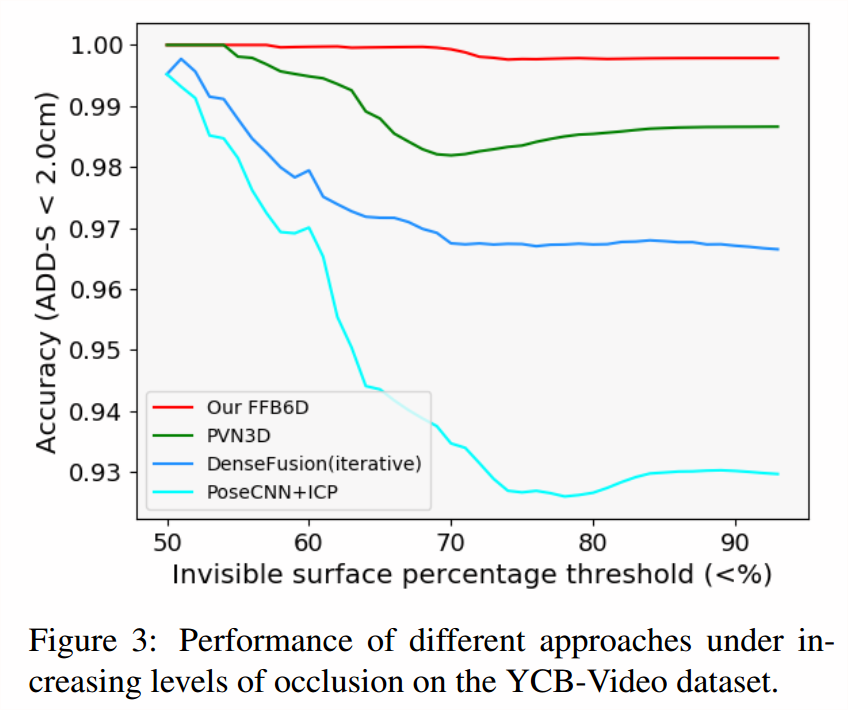
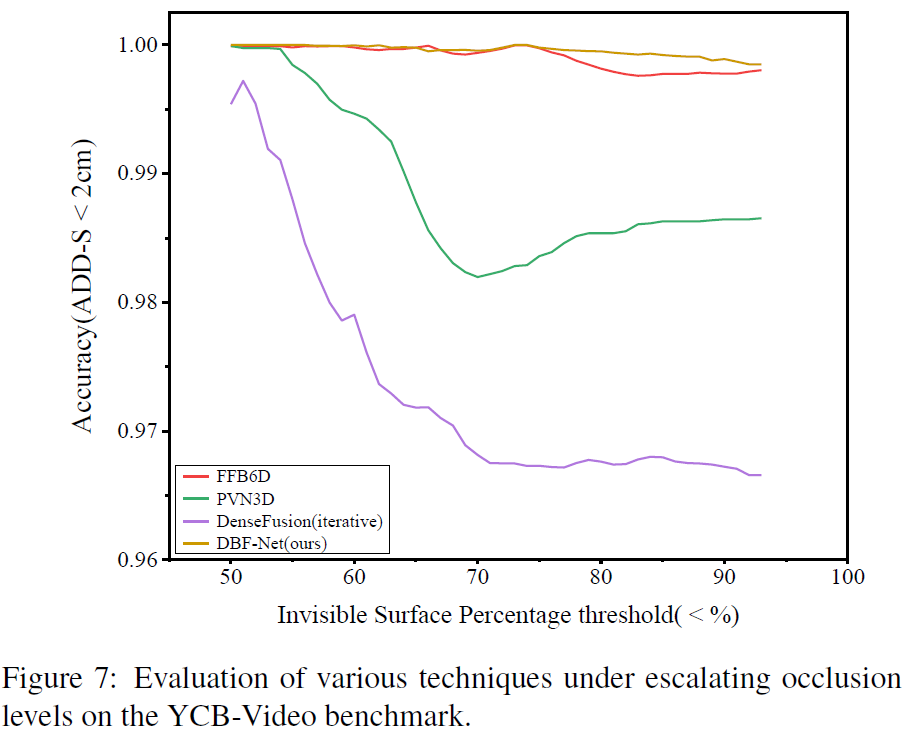
update README

diff --git a/README.md b/README.md
@@ -1,9 +1,9 @@
-# FFB6D
-This is the official source code for the **CVPR2021 Oral** work, **FFB6D: A Full Flow Biderectional Fusion Network for 6D Pose Estimation**. ([Arxiv](https://arxiv.org/abs/2103.02242), [Video_Bilibili](https://www.bilibili.com/video/BV1YU4y1a7Kp?from=search&seid=8306279574921937158), [Video_YouTube](https://www.youtube.com/watch?v=SSi2TnyD6Is))
+# DBF-Net
+This is the official source code for the **Expert System with Applications** work, **DBF-Net: A Deep Bidirectional Fusion Network for 6D Object Pose Estimation with Transformer**. ([Paper]():To be continued...)
 
 ## Table of Content
 
-- [FFB6D](#ffb6d)
+- [DBF-Net](#ffb6d)
   - [Table of Content](#table-of-content)
   - [Introduction & Citation](#introduction--citation)
   - [Demo Video](#demo-video)
@@ -22,33 +22,16 @@ This is the official source code for the **CVPR2021 Oral** work, **FFB6D: A Full
   - [License](#license)
 
 ## Introduction & Citation
-<div align=center><img width="100%" src="figs/FFB6D_overview.png"/></div>
+<div align=center><img width="100%" src="figs/dbf_net_overview.png"/></div>
 
-[FFB6D](https://arxiv.org/abs/2103.02242v1) is a general framework for representation learning from a single RGBD image, and we applied it to the 6D pose estimation task by cascading downstream prediction headers for instance semantic segmentation and 3D keypoint voting prediction from PVN3D([Arxiv](https://arxiv.org/abs/1911.04231), [Code](https://github.com/ethnhe/PVN3D), [Video](https://www.bilibili.com/video/av89408773/)). 
-At the representation learning stage of FFB6D, we build **bidirectional** fusion modules in the **full flow** of the two networks, where fusion is applied to each encoding and decoding layer. In this way, the two networks can leverage local and global complementary information from the other one to obtain better representations. Moreover, at the output representation stage, we designed a simple but effective 3D keypoints selection algorithm considering the texture and geometry information of objects, which simplifies keypoint localization for precise pose estimation.
+**DBF-Net** is a general framework for representation learning from a single RGBD image, and we applied it to the 6D pose estimation task by cascading downstream prediction headers for instance semantic segmentation and 3D keypoint voting prediction from PVN3D([Arxiv](https://arxiv.org/abs/1911.04231), [Code](https://github.com/ethnhe/PVN3D), [Video](https://www.bilibili.com/video/av89408773/)). 
 
-Please cite [FFB6D](https://arxiv.org/abs/2103.02242v1) & [PVN3D](https://arxiv.org/abs/1911.04231) if you use this repository in your publications:
+Firstly, we introduce a **sparse linear Transformer** (SLT) with linear computation complexity to capitalize on cross-modal semantic resemblance during the representation learning phase, such that effectively modeling semantic associations between various modalities and efficiently aggregating the globally enhanced features of each modality. SLT builds a sparse attention matrice to adaptively filter out small attention weights, thus effectively mitigating redundant passing.
 
-```
-@InProceedings{He_2021_CVPR,
-author = {He, Yisheng and Huang, Haibin and Fan, Haoqiang and Chen, Qifeng and Sun, Jian},
-title = {FFB6D: A Full Flow Bidirectional Fusion Network for 6D Pose Estimation},
-booktitle = {IEEE/CVF Conference on Computer Vision and Pattern Recognition (CVPR)},
-month = {June},
-year = {2021}
-}
+Secondly, we integrate **positional encoding and feature transformation** into SLT to obtain better feature representations. Once acquiring the two feature representations from the two modalities, we propose a feature balancer (FB) based on SLT to adaptively reconcile the importance of the two feature representations. Leveraging the global receptive field of SLT, FB can effectively eliminate the ambiguity induced by visual similarity in appearance representation or depth missing of reflective surfaces in geometry representations, thereby enhancing the generalization ability and robustness of the network.
 
-@InProceedings{He_2020_CVPR,
-author = {He, Yisheng and Sun, Wei and Huang, Haibin and Liu, Jianran and Fan, Haoqiang and Sun, Jian},
-title = {PVN3D: A Deep Point-Wise 3D Keypoints Voting Network for 6DoF Pose Estimation},
-booktitle = {IEEE/CVF Conference on Computer Vision and Pattern Recognition (CVPR)},
-month = {June},
-year = {2020}
-}
-```
+Please cite [DBF-Net](https://arxiv.org/abs/2103.02242v1) & [PVN3D](https://arxiv.org/abs/1911.04231) if you use this repository in your publications:
 
-## Demo Video
-See our demo video on [YouTube](https://www.youtube.com/watch?v=SSi2TnyD6Is) or [bilibili](https://www.bilibili.com/video/BV1YU4y1a7Kp?from=search&seid=8306279574921937158).
 ## Installation
 - Install CUDA 10.1 / 10.2
 - Set up python3 environment from requirement.txt:
@@ -74,7 +57,7 @@ See our demo video on [YouTube](https://www.youtube.com/watch?v=SSi2TnyD6Is) or 
 
 - Compile [RandLA-Net](https://github.com/qiqihaer/RandLA-Net-pytorch) operators:
   ```shell
-  cd ffb6d/models/RandLA/
+  cd dbfnet/models/RandLA/
   sh compile_op.sh
   ```
 
@@ -82,76 +65,77 @@ See our demo video on [YouTube](https://www.youtube.com/watch?v=SSi2TnyD6Is) or 
 <details>
   <summary>[Click to expand]</summary>
 
-- **ffb6d**
-  - **ffb6d/common.py**: Common configuration of dataset and models, eg. dataset path, keypoints path, batch size and so on.
-  - **ffb6d/datasets**
-    - **ffb6d/datasets/linemod/**
-      - **ffb6d/datasets/linemod/linemod_dataset.py**: Data loader for LineMOD dataset.
-      - **ffb6d/datasets/linemod/dataset_config/models_info.yml**: Object model info of LineMOD dataset.
-      - **ffb6d/datasets/linemod/kps_orb9_fps**
-        - **ffb6d/datasets/linemod/kps_orb9_fps/{obj_name}_8_kps.txt**: ORB-FPS 3D keypoints of an object in the object coordinate system.
-        - **ffb6d/datasets/linemod/kps_orb9_fps/{obj_name}_corners.txt**: 8 corners of the 3D bounding box of an object in the object coordinate system.
-    - **ffb6d/datasets/ycb**
-      - **ffb6d/datasets/ycb/ycb_dataset.py**： Data loader for YCB_Video dataset.
-        - **ffb6d/datasets/ycb/dataset_config/classes.txt**: Object list of YCB_Video dataset.
-        - **ffb6d/datasets/ycb/dataset_config/radius.txt**: Radius of each object in YCB_Video dataset.
-        - **ffb6d/datasets/ycb/dataset_config/train_data_list.txt**: Training set of YCB_Video datset.
-        - **ffb6d/datasets/ycb/dataset_config/test_data_list.txt**: Testing set of YCB_Video dataset.
-      - **ffb6d/datasets/ycb/ycb_kps**
-        - **ffb6d/datasets/ycb/ycb_kps/{obj_name}_8_kps.txt**: ORB-FPS 3D keypoints of an object in the object coordinate system.
-        - **ffb6d/datasets/ycb/ycb_kps/{obj_name}_corners.txt**: 8 corners of the 3D bounding box of an object in the object coordinate system.
-  - **ffb6d/models**
-    - **ffb6d/models/ffb6d.py**: Network architecture of the proposed FFB6D.
-    - **ffb6d/models/cnn**
-      - **ffb6d/models/cnn/extractors.py**: Resnet backbones.
-      - **ffb6d/models/cnn/pspnet.py**: PSPNet decoder.
-      - **ffb6d/models/cnn/ResNet_pretrained_mdl**: Resnet pretraiend model weights.
-    - **ffb6d/models/loss.py**: loss calculation for training of FFB6D model.
-    - **ffb6d/models/pytorch_utils.py**: pytorch basic network modules.
-    - **ffb6d/models/RandLA/**: pytorch version of RandLA-Net from [RandLA-Net-pytorch](https://github.com/qiqihaer/RandLA-Net-pytorch)
-  - **ffb6d/utils**
-    - **ffb6d/utils/basic_utils.py**: basic functions for data processing, visualization and so on.
-    - **ffb6d/utils/meanshift_pytorch.py**: pytorch version of meanshift algorithm for 3D center point and keypoints voting. 
-    - **ffb6d/utils/pvn3d_eval_utils_kpls.py**: Object pose esitimation from predicted center/keypoints offset and evaluation metrics.
-    - **ffb6d/utils/ip_basic**: Image Processing for Basic Depth Completion from [ip_basic](https://github.com/kujason/ip_basic).
-    - **ffb6d/utils/dataset_tools**
-      - **ffb6d/utils/dataset_tools/DSTOOL_README.md**: README for dataset tools.
-      - **ffb6d/utils/dataset_tools/requirement.txt**: Python3 requirement for dataset tools.
-      - **ffb6d/utils/dataset_tools/gen_obj_info.py**: Generate object info, including SIFT-FPS 3d keypoints, radius etc.
-      - **ffb6d/utils/dataset_tools/rgbd_rnder_sift_kp3ds.py**: Render rgbd images from mesh and extract textured 3d keypoints (SIFT/ORB).
-      - **ffb6d/utils/dataset_tools/utils.py**: Basic utils for mesh, pose, image and system processing.
-      - **ffb6d/utils/dataset_tools/fps**: Furthest point sampling algorithm.
-      - **ffb6d/utils/dataset_tools/example_mesh**: Example mesh models.
-  - **ffb6d/train_ycb.py**: Training & Evaluating code of FFB6D models for the YCB_Video dataset.
-  - **ffb6d/demo.py**: Demo code for visualization.
-  - **ffb6d/train_ycb.sh**: Bash scripts to start the training on the YCB_Video dataset.
-  - **ffb6d/test_ycb.sh**: Bash scripts to start the testing on the YCB_Video dataset.
-  - **ffb6d/demo_ycb.sh**: Bash scripts to start the demo on the YCB_Video_dataset.
-  - **ffb6d/train_lm.py**: Training & Evaluating code of FFB6D models for the LineMOD dataset.
-  - **ffb6d/train_lm.sh**: Bash scripts to start the training on the LineMOD dataset.
-  - **ffb6d/test_lm.sh**: Bash scripts to start the testing on the LineMOD dataset.
-  - **ffb6d/demo_lm.sh**: Bash scripts to start the demo on the LineMOD dataset.
-  - **ffb6d/train_log**
-    - **ffb6d/train_log/ycb**
-      - **ffb6d/train_log/ycb/checkpoints/**: Storing trained checkpoints on the YCB_Video dataset.
-      - **ffb6d/train_log/ycb/eval_results/**: Storing evaluated results on the YCB_Video_dataset.
-      - **ffb6d/train_log/ycb/train_info/**: Training log on the YCB_Video_dataset.
+- **dbfnet**
+  - **dbfnet/common.py**: Common configuration of dataset and models, eg. dataset path, keypoints path, batch size and so on.
+  - **dbfnet/datasets**
+    - **dbfnet/datasets/linemod/**
+      - **dbfnet/datasets/linemod/linemod_dataset.py**: Data loader for LineMOD dataset.
+      - **dbfnet/datasets/linemod/dataset_config/models_info.yml**: Object model info of LineMOD dataset.
+      - **dbfnet/datasets/linemod/kps_orb9_fps**
+        - **dbfnet/datasets/linemod/kps_orb9_fps/{obj_name}_8_kps.txt**: ORB-FPS 3D keypoints of an object in the object coordinate system.
+        - **dbfnet/datasets/linemod/kps_orb9_fps/{obj_name}_corners.txt**: 8 corners of the 3D bounding box of an object in the object coordinate system.
+    - **dbfnet/datasets/ycb**
+      - **dbfnet/datasets/ycb/ycb_dataset.py**： Data loader for YCB_Video dataset.
+        - **dbfnet/datasets/ycb/dataset_config/classes.txt**: Object list of YCB_Video dataset.
+        - **dbfnet/datasets/ycb/dataset_config/radius.txt**: Radius of each object in YCB_Video dataset.
+        - **dbfnet/datasets/ycb/dataset_config/train_data_list.txt**: Training set of YCB_Video datset.
+        - **dbfnet/datasets/ycb/dataset_config/test_data_list.txt**: Testing set of YCB_Video dataset.
+      - **dbfnet/datasets/ycb/ycb_kps**
+        - **dbfnet/datasets/ycb/ycb_kps/{obj_name}_8_kps.txt**: ORB-FPS 3D keypoints of an object in the object coordinate system.
+        - **dbfnet/datasets/ycb/ycb_kps/{obj_name}_corners.txt**: 8 corners of the 3D bounding box of an object in the object coordinate system.
+  - **dbfnet/models**
+    - **dbfnet/models/ffb6d.py**: Network architecture of the proposed FFB6D.
+    - **dbfnet/models/cnn**
+      - **dbfnet/models/cnn/extractors.py**: Resnet backbones.
+      - **dbfnet/models/cnn/pspnet.py**: PSPNet decoder.
+      - **dbfnet/models/cnn/ResNet_pretrained_mdl**: Resnet pretraiend model weights.
+    - **dbfnet/models/loss.py**: loss calculation for training of FFB6D model.
+    - **dbfnet/models/pytorch_utils.py**: pytorch basic network modules.
+    - **dbfnet/models/RandLA/**: pytorch version of RandLA-Net from [RandLA-Net-pytorch](https://github.com/qiqihaer/RandLA-Net-pytorch)
+  - **dbfnet/utils**
+    - **dbfnet/utils/basic_utils.py**: basic functions for data processing, visualization and so on.
+    - **dbfnet/utils/meanshift_pytorch.py**: pytorch version of meanshift algorithm for 3D center point and keypoints voting. 
+    - **dbfnet/utils/pvn3d_eval_utils_kpls.py**: Object pose esitimation from predicted center/keypoints offset and evaluation metrics.
+    - **dbfnet/utils/ip_basic**: Image Processing for Basic Depth Completion from [ip_basic](https://github.com/kujason/ip_basic).
+    - **dbfnet/utils/dataset_tools**
+      - **dbfnet/utils/dataset_tools/DSTOOL_README.md**: README for dataset tools.
+      - **dbfnet/utils/dataset_tools/requirement.txt**: Python3 requirement for dataset tools.
+      - **dbfnet/utils/dataset_tools/gen_obj_info.py**: Generate object info, including SIFT-FPS 3d keypoints, radius etc.
+      - **dbfnet/utils/dataset_tools/rgbd_rnder_sift_kp3ds.py**: Render rgbd images from mesh and extract textured 3d keypoints (SIFT/ORB).
+      - **dbfnet/utils/dataset_tools/utils.py**: Basic utils for mesh, pose, image and system processing.
+      - **dbfnet/utils/dataset_tools/fps**: Furthest point sampling algorithm.
+      - **dbfnet/utils/dataset_tools/example_mesh**: Example mesh models.
+  - **dbfnet/train_ycb.py**: Training & Evaluating code of FFB6D models for the YCB_Video dataset.
+  - **dbfnet/demo.py**: Demo code for visualization.
+  - **dbfnet/train_ycb.sh**: Bash scripts to start the training on the YCB_Video dataset.
+  - **dbfnet/test_ycb.sh**: Bash scripts to start the testing on the YCB_Video dataset.
+  - **dbfnet/demo_ycb.sh**: Bash scripts to start the demo on the YCB_Video_dataset.
+  - **dbfnet/train_lm.py**: Training & Evaluating code of FFB6D models for the LineMOD dataset.
+  - **dbfnet/train_lm.sh**: Bash scripts to start the training on the LineMOD dataset.
+  - **dbfnet/test_lm.sh**: Bash scripts to start the testing on the LineMOD dataset.
+  - **dbfnet/demo_lm.sh**: Bash scripts to start the demo on the LineMOD dataset.
+  - **dbfnet/train_log**
+    - **dbfnet/train_log/ycb**
+      - **dbfnet/train_log/ycb/checkpoints/**: Storing trained checkpoints on the YCB_Video dataset.
+      - **dbfnet/train_log/ycb/eval_results/**: Storing evaluated results on the YCB_Video_dataset.
+      - **dbfnet/train_log/ycb/train_info/**: Training log on the YCB_Video_dataset.
 - **requirement.txt**: python3 environment requirements for pip3 install.
 - **figs/**: Images shown in README.
 
 </details>
 
 ## Datasets
-- **LineMOD:** Download the preprocessed LineMOD dataset from [onedrive link](https://hkustconnect-my.sharepoint.com/:u:/g/personal/yhebk_connect_ust_hk/ETW6iYHDbo1OsIbNJbyNBkABF7uJsuerB6c0pAiiIv6AHw?e=eXM1UE) or [google drive link](https://drive.google.com/drive/folders/19ivHpaKm9dOrr12fzC8IDFczWRPFxho7) (refer from [DenseFusion](https://github.com/j96w/DenseFusion)). Unzip it and link the unzipped ``Linemod_preprocessed/`` to ``ffb6d/datasets/linemod/Linemod_preprocessed``:
+- **LineMOD:** Download the preprocessed LineMOD dataset from [onedrive link](https://hkustconnect-my.sharepoint.com/:u:/g/personal/yhebk_connect_ust_hk/ETW6iYHDbo1OsIbNJbyNBkABF7uJsuerB6c0pAiiIv6AHw?e=eXM1UE) or [google drive link](https://drive.google.com/drive/folders/19ivHpaKm9dOrr12fzC8IDFczWRPFxho7) (refer from [DenseFusion](https://github.com/j96w/DenseFusion)). Unzip it and link the unzipped ``Linemod_preprocessed/`` to ``dbfnet/datasets/linemod/Linemod_preprocessed``:
+  
   ```shell
-  ln -s path_to_unzipped_Linemod_preprocessed ffb6d/dataset/linemod/
+  ln -s path_to_unzipped_Linemod_preprocessed dbfnet/dataset/linemod/
   ```
   Generate rendered and fused data following [raster_triangle](https://github.com/ethnhe/raster_triangle).
-
+  
 - **YCB-Video:** Download the YCB-Video Dataset from [PoseCNN](https://rse-lab.cs.washington.edu/projects/posecnn/). Unzip it and link the unzipped```YCB_Video_Dataset``` to ```ffb6d/datasets/ycb/YCB_Video_Dataset```:
 
   ```shell
-  ln -s path_to_unzipped_YCB_Video_Dataset ffb6d/datasets/ycb/
+  ln -s path_to_unzipped_YCB_Video_Dataset dbfnet/datasets/ycb/
   ```
 
 ## Training and evaluating
@@ -175,18 +159,18 @@ See our demo video on [YouTube](https://www.youtube.com/watch?v=SSi2TnyD6Is) or 
   ```shell
   # commands in test_lm.sh
   cls='ape'
-  tst_mdl="./linemod_pretrained/FFB6D_${cls}_best.pth.tar"
+  tst_mdl="./linemod_pretrained/dbfnet_${cls}_best.pth.tar"
   python3 -m torch.distributed.launch --nproc_per_node=1 train_lm.py --gpu '0' --cls $cls -eval_net -checkpoint $tst_mdl -test -test_pose # -debug
   ```
   You can evaluate different checkpoint by revising ``tst_mdl`` to the path of your target model.
-- **Pretrained model**: We provide our pre-trained models for each object on onedrive, [link](https://hkustconnect-my.sharepoint.com/:f:/g/personal/yhebk_connect_ust_hk/Ehg--MMyNdtLnAEurN0tm_MBQ8u_Lntrl42-BQeXO_8H8Q?e=HsZ2Yi). (The provided pretrained model here get better performance than we reported in our paper, mean ADD-0.1d 99.8). Download them and move them to their according folders. For example, move the ``FFB6D_ape_best.pth.tar`` to ``train_log/linemod/checkpoints/ape/``. Then revise ``tst_mdl=train_log/linemod/checkpoints/ape/FFB6D_ape_best.path.tar`` for testing.
+- **Pretrained model**: We provide our pre-trained models for each object on onedrive, \TODO{link}. (The provided pretrained model here get better performance than we reported in our paper, mean ADD-0.1d 99.8). Download them and move them to their according folders. For example, move the ``dbfnet_ape_best.pth.tar`` to ``train_log/linemod/checkpoints/ape/``. Then revise ``tst_mdl=train_log/linemod/checkpoints/ape/dbfnet_ape_best.path.tar`` for testing.
 
 ### Demo/visualizaion on the LineMOD Dataset
 - After training your models or downloading the pre-trained models, you can start the demo by:
   ```shell
   # commands in demo_lm.sh
   cls='ape'
-  tst_mdl=train_log/linemod/checkpoints/${cls}/FFB6D_${cls}_best.pth.tar
+  tst_mdl=train_log/linemod/checkpoints/${cls}/dbfnet_${cls}_best.pth.tar
   python3 -m demo -dataset linemod -checkpoint $tst_mdl -cls $cls -show
   ```
   The visualization results will be stored in ``train_log/linemod/eval_results/{cls}/pose_vis``
@@ -206,17 +190,17 @@ See our demo video on [YouTube](https://www.youtube.com/watch?v=SSi2TnyD6Is) or 
 - Start evaluating by:
   ```shell
   # commands in test_ycb.sh
-  tst_mdl=train_log/ycb/checkpoints/FFB6D_best.pth.tar  # checkpoint to test.
+  tst_mdl=train_log/ycb/checkpoints/dbfnet_best.pth.tar  # checkpoint to test.
   python3 -m torch.distributed.launch --nproc_per_node=1 train_ycb.py --gpu '0' -eval_net -checkpoint $tst_mdl -test -test_pose # -debug
   ```
   You can evaluate different checkpoints by revising the ``tst_mdl`` to the path of your target model.
-- **Pretrained model**: We provide our pre-trained models on onedrive, [here](https://hkustconnect-my.sharepoint.com/:u:/g/personal/yhebk_connect_ust_hk/EW7a5w-ytftLgexIyXuIcjwB4o0dWo1hMteMNlA1zgM7Wg?e=UE1WJs). Download the pre-trained model, move it to ``train_log/ycb/checkpoints/`` and modify ``tst_mdl`` for testing.
+- **Pretrained model**: We provide our pre-trained models on onedrive, \Todo{here}[here](https://hkustconnect-my.sharepoint.com/:u:/g/personal/yhebk_connect_ust_hk/EW7a5w-ytftLgexIyXuIcjwB4o0dWo1hMteMNlA1zgM7Wg?e=UE1WJs). Download the pre-trained model, move it to ``train_log/ycb/checkpoints/`` and modify ``tst_mdl`` for testing.
 
 ### Demo/visualization on the YCB-Video Dataset
 - After training your model or downloading the pre-trained model, you can start the demo by:
   ```shell
   # commands in demo_ycb.sh
-  tst_mdl=train_log/ycb/checkpoints/FFB6D_best.pth.tar
+  tst_mdl=train_log/ycb/checkpoints/dbfnet_best.pth.tar
   python3 -m demo -checkpoint $tst_mdl -dataset ycb
   ```
   The visualization results will be stored in ```train_log/ycb/eval_results/pose_vis```.
@@ -227,10 +211,10 @@ See our demo video on [YouTube](https://www.youtube.com/watch?v=SSi2TnyD6Is) or 
   <thead>
     <tr>
       <th class="tg-0pky"></th>
-      <th class="tg-c3ow" colspan="2" style="text-align: center">PoseCNN</th>
-      <th class="tg-c3ow" colspan="2" style="text-align: center">PointFusion</th>
-      <th class="tg-c3ow" colspan="2" style="text-align: center">DenseFusion</th>
       <th class="tg-c3ow" colspan="2" style="text-align: center">PVN3D</th>
+      <th class="tg-c3ow" colspan="2" style="text-align: center">FFB6D</th>
+      <th class="tg-c3ow" colspan="2" style="text-align: center">RCVPose</th>
+      <th class="tg-c3ow" colspan="2" style="text-align: center">DFTr</th>
       <th class="tg-c3ow" colspan="2" style="text-align: center">Our FFF6D</th>
     </tr>
   </thead>
@@ -250,16 +234,16 @@ See our demo video on [YouTube](https://www.youtube.com/watch?v=SSi2TnyD6Is) or 
     </tr>
     <tr>
       <td class="tg-0pky">ALL</td>
-      <td class="tg-0pky">75.8</td>
-      <td class="tg-0pky">59.9</td>
-      <td class="tg-0pky">83.9</td>
-      <td class="tg-0pky">-</td>
-      <td class="tg-0pky">91.2</td>
-      <td class="tg-0pky">82.9</td>
       <td class="tg-0pky">95.5</td>
       <td class="tg-0pky">91.8</td>
-      <td class="tg-fymr" style="font-weight:bold">96.6</td>
-      <td class="tg-fymr" style="font-weight:bold">92.7</td>
+      <td class="tg-0pky">96.6</td>
+      <td class="tg-0pky">92.7</td>
+      <td class="tg-0pky">96.6</td>
+      <td class="tg-0pky">95.2</td>
+      <td class="tg-0pky">96.7</td>
+      <td class="tg-0pky">94.4</td>
+      <td class="tg-fymr" style="font-weight:bold">97.3</td>
+      <td class="tg-fymr" style="font-weight:bold">96.1</td>
     </tr>
   </tbody>
   </table>
@@ -277,24 +261,24 @@ See our demo video on [YouTube](https://www.youtube.com/watch?v=SSi2TnyD6Is) or 
     <tr>
       <td class="tg-7zrl"></td>
       <td class="tg-7zrl">PVNet</td>
-      <td class="tg-7zrl">CDPN</td>
+      <td class="tg-7zrl">PPRN</td>
       <td class="tg-7zrl">DPOD</td>
-      <td class="tg-7zrl">PointFusion</td>
-      <td class="tg-7zrl">DenseFusion(iterative)</td>
-      <td class="tg-7zrl">G2L-Net</td>
-      <td class="tg-2b7s">PVN3D</td>
-      <td class="tg-7zrl">FFF6D</td>
+      <td class="tg-7zrl">PVN3D</td>
+      <td class="tg-7zrl">FFB6D</td>
+      <td class="tg-7zrl">DON6D</td>
+      <td class="tg-2b7s">RNNPose</td>
+      <td class="tg-7zrl">DBF-Net</td>
     </tr>
     <tr>
       <td class="tg-7zrl">MEAN</td>
       <td class="tg-7zrl">86.3 </td>
-      <td class="tg-7zrl">89.9 </td>
+      <td class="tg-7zrl">93.9 </td>
       <td class="tg-7zrl">95.2 </td>
-      <td class="tg-7zrl">73.7 </td>
-      <td class="tg-7zrl">94.3 </td>
-      <td class="tg-7zrl">98.7 </td>
       <td class="tg-7zrl">99.4 </td>
-      <td class="tg-j6zm" style="font-weight:bold">99.7</td>
+      <td class="tg-7zrl">99.7 </td>
+      <td class="tg-7zrl">98.6 </td>
+      <td class="tg-7zrl">97.4 </td>
+      <td class="tg-j6zm" style="font-weight:bold">99.98</td>
     </tr>
   </tbody>
   </table>
@@ -302,13 +286,13 @@ See our demo video on [YouTube](https://www.youtube.com/watch?v=SSi2TnyD6Is) or 
 - Robustness upon occlusion:
 <div align=center><img width="50%" src="figs/occlusion.png"/></div>
 
-- Model parameters and speed on the LineMOD dataset (one object / frame) with one 2080Ti GPU:
+- Model parameters and speed on the LineMOD dataset (one object / frame) with one RTX 3090 GPU:
   <table class="tg">
   <thead>
     <tr>
       <th class="tg-7zrl"></th>
       <th class="tg-7zrl">Parameters</th>
-      <th class="tg-7zrl">Network Forward</th>
+      <th class="tg-7zrl">FS</th>
       <th class="tg-7zrl">Pose Estimation</th>
       <th class="tg-7zrl">All time</th>
     </tr>
@@ -317,31 +301,38 @@ See our demo video on [YouTube](https://www.youtube.com/watch?v=SSi2TnyD6Is) or 
     <tr>
       <td class="tg-7zrl">PVN3D</td>
       <td class="tg-7zrl">39.2M</td>
-      <td class="tg-7zrl">170ms</td>
-      <td class="tg-7zrl">20ms</td>
-      <td class="tg-7zrl">190ms</td>
+      <td class="tg-7zrl">154ms</td>
+      <td class="tg-7zrl">13ms</td>
+      <td class="tg-7zrl">167ms</td>
     </tr>
     <tr>
       <td class="tg-7zrl">FFF6D<br></td>
       <td class="tg-7zrl">33.8M </td>
-      <td class="tg-7zrl">57ms</td>
-      <td class="tg-7zrl">18ms</td>
-      <td class="tg-7zrl">75ms</td>
+      <td class="tg-7zrl">49ms</td>
+      <td class="tg-7zrl">12ms</td>
+      <td class="tg-7zrl">61ms</td>
+    </tr>
+    <tr>
+      <td class="tg-7zrl">DBFNet<br></td>
+      <td class="tg-7zrl">35.6M </td>
+      <td class="tg-7zrl">46ms</td>
+      <td class="tg-7zrl">13ms</td>
+      <td class="tg-7zrl">59ms</td>
     </tr>
   </tbody>
   </table>
 
 ## Adaptation to New Dataset
-- Install and generate required mesh info following [DSTOOL_README](./ffb6d/utils/dataset_tools/DSTOOL_README.md).
-- Modify info of your new dataset in ```FFB6D/ffb6d/common.py``` 
-- Write your dataset preprocess script following ```FFB6D/ffb6d/datasets/ycb/ycb_dataset.py```. Note that you should modify or call the function that get your model info, such as 3D keypoints, center points, and radius properly.
+- Install and generate required mesh info following [DSTOOL_README](./dbfnet/utils/dataset_tools/DSTOOL_README.md).
+- Modify info of your new dataset in ```dbfnet/ffb6d/common.py``` 
+- Write your dataset preprocess script following ```dbfnet/ffb6d/datasets/ycb/ycb_dataset.py```. Note that you should modify or call the function that get your model info, such as 3D keypoints, center points, and radius properly.
 - (**Very Important!**) Visualize and check if you process the data properly, eg, the projected keypoints and center point, the semantic label of each point, etc. For example, you can visualize the projected center point (red point) and selected keypoints (orange points) as follow by running ```python3 -m datasets.ycb.ycb_dataset```.
   <div align=center><img width="60%" src="figs/shown_kp_ycb.png"/></div>
 
-- For inference, make sure that you load the 3D keypoints, center point, and radius of your objects in the object coordinate system properly in ```FFB6D/ffb6d/utils/pvn3d_eval_utils.py```.
+- For inference, make sure that you load the 3D keypoints, center point, and radius of your objects in the object coordinate system properly in ```dbfnet/ffb6d/utils/pvn3d_eval_utils.py```.
 - Check that all setting are modified properly by using the ground truth information for evaluation. The result should be high and close to 100 if everything is correct. For example, testing ground truth on the YCB_Video dataset by passing ```-test_gt``` parameters to ```train_ycb.py``` will get results higher than 99.99:
   ```
-  tst_mdl=train_log/ycb/checkpoints/FFB6D_best.pth.tar
+  tst_mdl=train_log/ycb/checkpoints/dbfnet_best.pth.tar
   python3 -m torch.distributed.launch --nproc_per_node=1 train_ycb.py --gpu '0' -eval_net -checkpoint $tst_mdl -test -test_pose -test_gt
   ```
 
